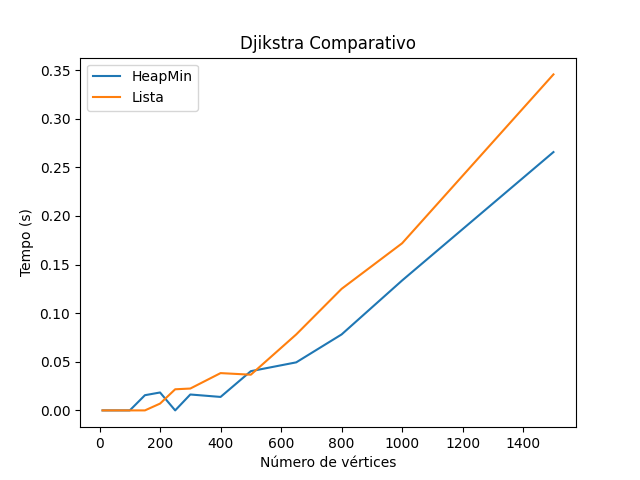
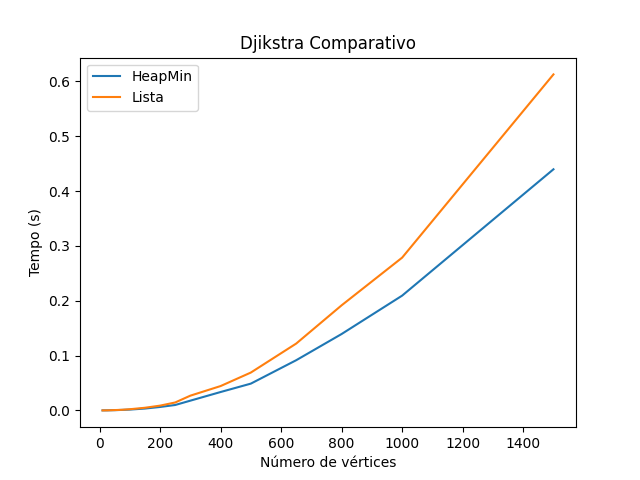
Alterações para testes

diff --git a/main.py b/main.py
@@ -2,6 +2,8 @@ import time
 from graph import read_graph, plot_and_save_all
 from djikstra import djikstra_heap, djikstra_list
 
+N_ITERS = 100 # Quantas vezes cada valor de entrada vai ser testado
+
 inputs = [10, 25, 50, 75, 100, 150, 200, 250, 300, 400, 500, 650, 800, 1000, 1500]
 
 n_s = []
@@ -9,20 +11,31 @@ h_s = []
 l_s = []
 
 for n in inputs:
-    graph = read_graph(n)
+    time_h = 0
+    time_l = 0
+    
+    for i in range(N_ITERS):
+        graph = read_graph(n)
 
-    start = time.time()
-    h = djikstra_heap(graph)
-    time_h = time.time() - start
+        start = time.time()
+        h = djikstra_heap(graph)
+        time_h += time.time() - start
 
-    start = time.time()
-    l = djikstra_list(graph)
-    time_l = time.time() - start
+        start = time.time()
+        l = djikstra_list(graph)
+        time_l += time.time() - start
+
+    time_h = time_h/N_ITERS
+    time_l = time_l/N_ITERS
 
     n_s.append(n)
     h_s.append(time_h)
     l_s.append(time_l)
 
     print(f'Entrada {n}: HeapMin = {time_h:.6f}s, Lista = {time_l:.6f}s')
+    '''if h==l:
+        print("As distâncias alcançadas por ambos métodos são iguais")
+    else:
+        print("As distâncias alcançadas pelos métodos diferem")'''
 
 plot_and_save_all(n_s, h_s, l_s, 'Comparativo')
